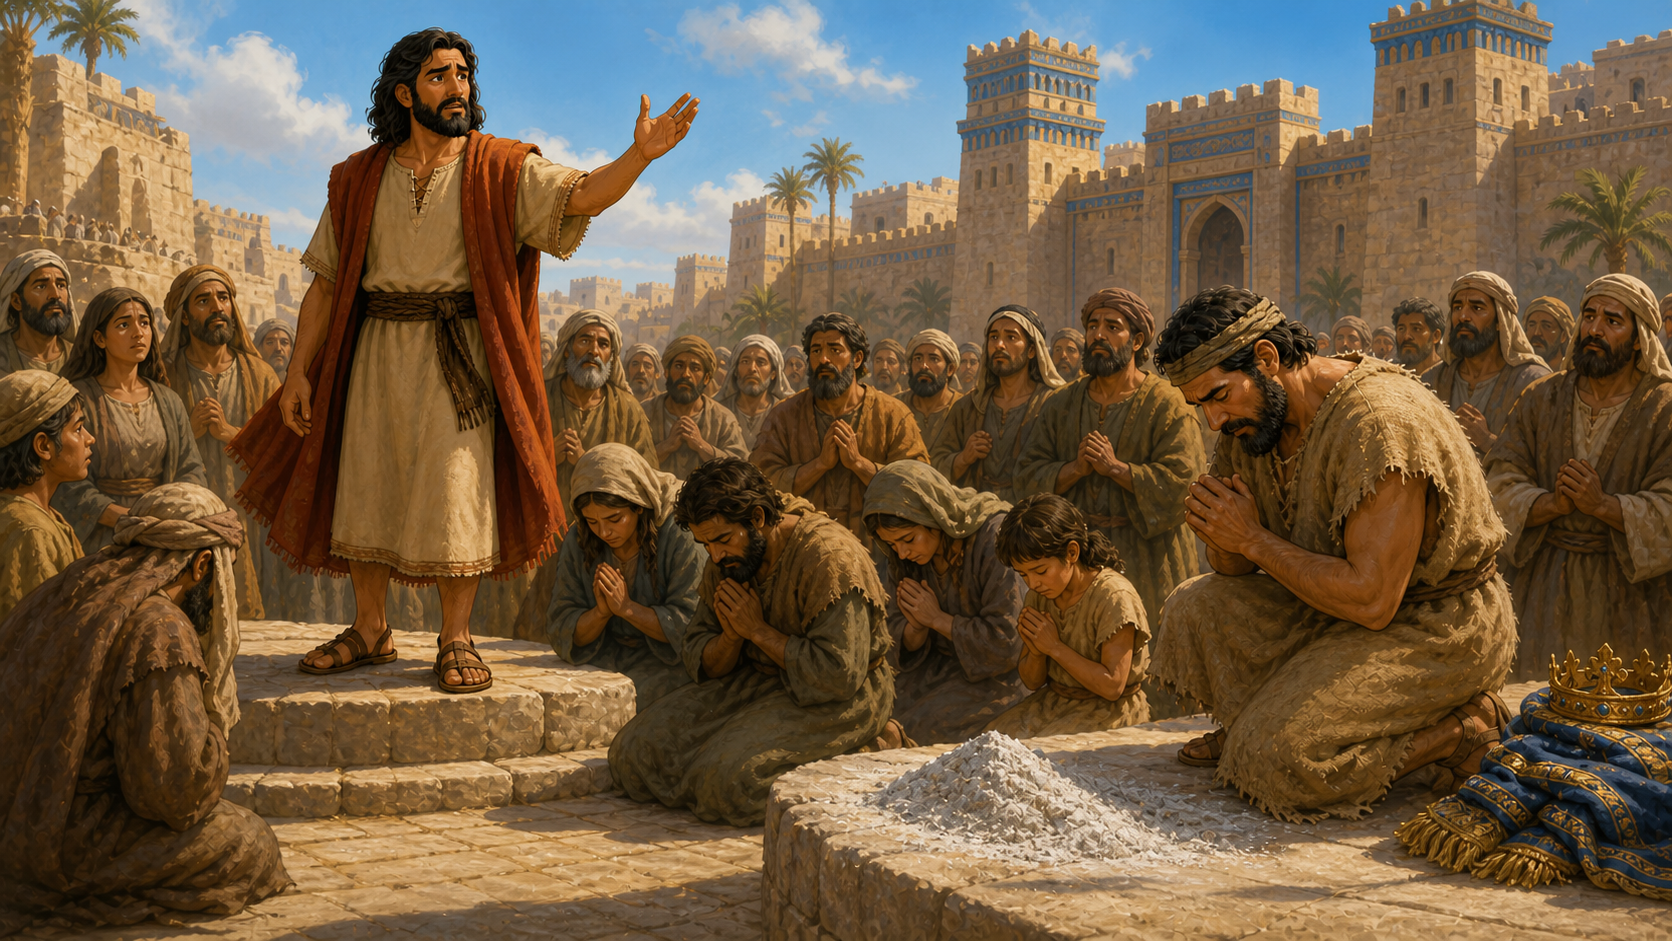
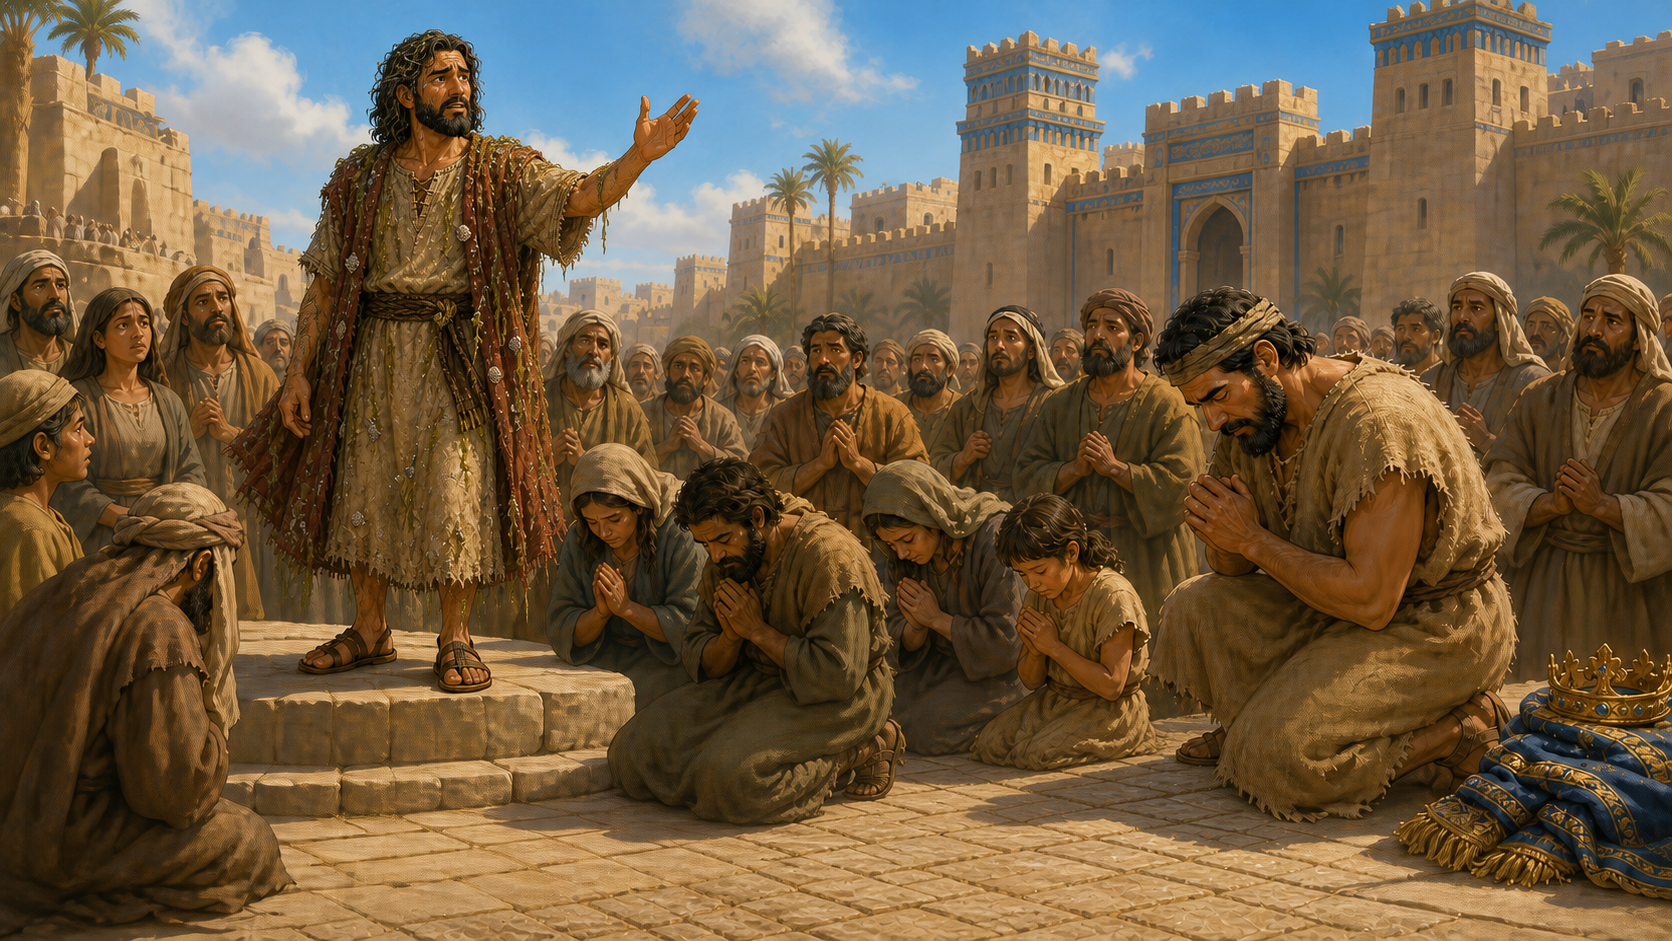
wip

diff --git a/Series/Adventures in the Bible/07 Jonah Runs From God/lesson-outline.md b/Series/Adventures in the Bible/07 Jonah Runs From God/lesson-outline.md
@@ -43,7 +43,7 @@ In Israel, God had certain people called prophets who would deliver his messages
 
 In Israel, there was a prophet named Jonah. God had a very specific message for Jonah to deliver, but it wasn't to the people of Israel, it was to the people of Nineveh. God wanted Nineveh to repent of their wickedness and to turn away from their evil deeds and to turn to God. And if they did that, he would forgive them. Otherwise, the city would be destroyed. 
 
- Jonah did not want to tell this message because Jonah, just like the rest of the Israelites, hated Nineveh and the Assyrians because of how they treated them.  Jonah knew very clearly what God wanted him to do. He wasn't confused. He didn't hear God incorrectly. He knew exactly what he was supposed to do. 
+Jonah did not want to tell this message because Jonah, just like the rest of the Israelites, hated Nineveh and the Assyrians because of how they treated them.  Jonah knew very clearly what God wanted him to do. He wasn't confused. He didn't hear God incorrectly. He knew exactly what he was supposed to do. 
 
 But Jonah decided not to obey. Jonah did not want Nineveh to repent of their sin. Jonah wanted Nineveh to be destroyed. He wanted God to judge Nineveh, not to forgive them. So Jonah decided to disobey God and not do what he was told. 
 
@@ -70,11 +70,11 @@ But Jonah decided not to obey. Jonah did not want Nineveh to repent of their sin
 
 ![image-3](image-3.png)
 
- So here we see Jonah, a prophet of God, doing something very silly. As a prophet, you would think he would know that you can't run from God, that you can't hide from God, and that God isn't going to change His mind just because you decide to disobey Him. You and I know better, and He's certainly did too. 
+So here we see Jonah, a prophet of God, doing something very silly. As a prophet, you would think he would know that you can't run from God, that you can't hide from God, and that God isn't going to change His mind just because you decide to disobey Him. You and I know better, and He's certainly did too. 
 
- Jonah was simply being naughty and disobeying God. God gave him a clear command, and he was rebelling against what God wanted him to do. Instead of going towards Nineveh, he decided to go the other way. He got on a boat, going to a city far, far away, paid for it. and headed in the opposite direction. 
+Jonah was simply being naughty and disobeying God. God gave him a clear command, and he was rebelling against what God wanted him to do. Instead of going towards Nineveh, he decided to go the other way. He got on a boat, going to a city far, far away, paid for it. and headed in the opposite direction. 
 
- He knew that he was doing wrong. He knew that he was disobeying God. God wanted him to go the other way, but Jonas said no. I'm sure every person he passed on his way to that boat reminded him of the people of Nineveh who would die and go to hell if he did not obey God. 
+He knew that he was doing wrong. He knew that he was disobeying God. God wanted him to go the other way, but Jonas said no. I'm sure every person he passed on his way to that boat reminded him of the people of Nineveh who would die and go to hell if he did not obey God. 
 
 **Psalm 139:7-10 (KJV)** - No one can go where God is not present.
 
@@ -116,50 +116,28 @@ But Jonah decided not to obey. Jonah did not want Nineveh to repent of their sin
 
 ![image-4](image-4.png)
 
- Boys and girls sometimes we might think that what God wants us to do is scary or sometimes it's something we don't want to do but no matter how scary it is or how much we don't want to do it. Disobeying God is always worse. Jonah was about to learn that the hard way. 
+Boys and girls sometimes we might think that what God wants us to do is scary or sometimes it's something we don't want to do but no matter how scary it is or how much we don't want to do it. Disobeying God is always worse. Jonah was about to learn that the hard way. 
 
- Jonah got on that ship and started to sail away. And at first, I'm sure he thought everything was just fine. But it wasn't. Soon it started to rain, and the wind picked up. And before he knew it, there was a massive storm. The storm was so bad it began to tear the ship apart. The crew began throwing things overboard to keep it floating when they found him sleeping below deck. 
+Jonah got on that ship and started to sail away. And at first, I'm sure he thought everything was just fine. But it wasn't. Soon it started to rain, and the wind picked up. And before he knew it, there was a massive storm. The storm was so bad it began to tear the ship apart. The crew began throwing things overboard to keep it floating when they found him sleeping below deck. 
 
- And asked him to pray that they would survive the storm. Then they decided to do something called cast lots to figure out whose fault it was that they were in this horrible storm.  Sure enough, they figured out it was Jonah. Jonah confessed to them that he was running from God. And this terrified them even more. 
+And asked him to pray that they would survive the storm. Then they decided to do something called cast lots to figure out whose fault it was that they were in this horrible storm.  Sure enough, they figured out it was Jonah. Jonah confessed to them that he was running from God. And this terrified them even more. 
 
- You see boys and girls, if he had just obeyed God from the beginning, sure he would have had to do something he didn't want to do, but he would have escaped this horrible storm, would not be fearing his own death, and would not have endangered the lives of complete strangers. Something we must realize is that whenever we do wrong, it doesn't just affect us, but it always affects someone else. 
+You see boys and girls, if he had just obeyed God from the beginning, sure he would have had to do something he didn't want to do, but he would have escaped this horrible storm, would not be fearing his own death, and would not have endangered the lives of complete strangers. Something we must realize is that whenever we do wrong, it doesn't just affect us, but it always affects someone else. 
 
-**Supporting Scriptures:**
+Jonah's wasn't the only story of a man who sinned and others paid the consequence for it. A man named Achan stole some goods from God and his entire family ended up being killed because of it. 
 
-- **Galatians 6:7 (KJV)** - We reap what we sow.
+**Joshua 7:1 (KJV)** - Achan's disobedience brought the LORD's anger upon all Israel.
 
-  > Be not deceived; God is not mocked: for whatsoever a man soweth, that shall he also reap.
-
-- **Proverbs 28:13 (KJV)** - Hiding sin does not bring mercy; confessing and forsaking it does.
-
-  > He that covereth his sins shall not prosper: but whoso confesseth and forsaketh them shall have mercy.
-
-- **Psalm 107:23-28 (KJV)** - God is sovereign over the sea and storms.
-
-  > 23 They that go down to the sea in ships, that do business in great waters;
-  >
-  > 24 These see the works of the LORD, and his wonders in the deep.
-  >
-  > 25 For he commandeth, and raiseth the stormy wind, which lifteth up the waves thereof.
-  >
-  > 26 They mount up to the heaven, they go down again to the depths: their soul is melted because of trouble.
-  >
-  > 27 They reel to and fro, and stagger like a drunken man, and are at their wits' end.
-  >
-  > 28 Then they cry unto the LORD in their trouble, and he bringeth them out of their distresses.
+> But the children of Israel committed a trespass in the accursed thing: for Achan, the son of Carmi, the son of Zabdi, the son of Zerah, of the tribe of Judah, took of the accursed thing: and the anger of the LORD was kindled against the children of Israel.
 
 **Practical Application for Children:**
 
 - Sin never stays as small as we think it will.
 - Your disobedience can hurt your family, friends, class, or church.
-- Do not be like Jonah and sleep through a problem you need to face.
-
-**Illustration:**
-
-- Use a toy boat in a pan or on a blue sheet while children make storm sounds.
-- Pause suddenly and ask: "Why is this storm happening?"
 
 ### 5. Jonah Was Thrown Into The Sea
+
+![image-5](image-5.png?1)
 
 **Main Passage:**
 
@@ -179,38 +157,25 @@ But Jonah decided not to obey. Jonah did not want Nineveh to repent of their sin
 
 **Summary/Lesson:**
 
-- Jonah told the sailors to throw him into the sea.
-- The sailors tried hard to row back to land before doing it.
-- When they threw Jonah overboard, the sea became calm.
-- The sailors feared the LORD and offered a sacrifice to Him.
-- Jonah's sin had brought him to a frightening, helpless place.
+The men on the ship wanted to know what Jonah thought they could do to save their ship and their lives. Jonah told them to throw him into the ocean. The men on the boat had good character because they couldn't do it. They didn't want to. They didn't want to harm another man's life, even though it might save theirs. That's more to say than Jonah, because Jonah was willing to put their lives, at risk just so that he didn't have to go to Nineveh. 
 
-**Supporting Scriptures:**
+So the men continued rowing, trying to fight the storm while Jonah sat there on the boat. Once again, Jonah didn't voluntarily jump into the ocean either. He could have done that, saving the man in the boat from more harm. But as the storm got worse, and the boat got beat more and more by the waves, the sailors knew they had to throw him overboard. And so they did. 
 
-- **Romans 6:23 (KJV)** - Sin earns death.
+ When they threw Joe overboard, the storm immediately stopped and the sea became calm again. 
 
-  > For the wages of sin is death; but the gift of God is eternal life through Jesus Christ our Lord.
+**Romans 6:23 (KJV)** - Sin earns death.
 
-- **Hebrews 9:27 (KJV)** - People must face God after death.
-
-  > And as it is appointed unto men once to die, but after this the judgment:
-
-- **Psalm 46:1 (KJV)** - God is our refuge and strength in trouble.
-
-  > God is our refuge and strength, a very present help in trouble.
+> For the wages of sin is death; but the gift of God is eternal life through Jesus Christ our Lord.
 
 **Practical Application for Children:**
 
 - Sin is serious, even when it begins with one wrong choice.
-- We need more than our own strength or cleverness to escape sin.
-- God can use even a hard consequence to get our attention.
-
-**Illustration:**
-
-- Have the "storm" stop instantly when a paper Jonah is removed from the toy boat.
-- Ask: "Could Jonah swim away from God?"
+- We cannot escape sin through our own strength or cleverness.
+- God will use even a hard consequence to get our attention.
 
 ### 6. God Prepared A Great Fish
+
+![image-6](image-6.png)
 
 **Main Passage:**
 
@@ -218,70 +183,33 @@ But Jonah decided not to obey. Jonah did not want Nineveh to repent of their sin
 
   > Now the LORD had prepared a great fish to swallow up Jonah. And Jonah was in the belly of the fish three days and three nights.
 
-- **Jonah 2:1-10 (KJV)**
+- **Jonah 2:1-2(KJV)**
 
   > 1 Then Jonah prayed unto the LORD his God out of the fish's belly,
   >
   > 2 And said, I cried by reason of mine affliction unto the LORD, and he heard me; out of the belly of hell cried I, and thou heardest my voice.
-  >
-  > 3 For thou hadst cast me into the deep, in the midst of the seas; and the floods compassed me about: all thy billows and thy waves passed over me.
-  >
-  > 4 Then I said, I am cast out of thy sight; yet I will look again toward thy holy temple.
-  >
-  > 5 The waters compassed me about, even to the soul; the depth closed me round about, the weeds were wrapped about my head.
-  >
-  > 6 I went down to the bottoms of the mountains; the earth with her bars was about me for ever: yet hast thou brought up my life from corruption, O LORD my God.
-  >
-  > 7 When my soul fainted within me I remembered the LORD: and my prayer came in unto thee, into thine holy temple.
-  >
-  > 8 They that observe lying vanities forsake their own mercy.
-  >
-  > 9 But I will sacrifice unto thee with the voice of thanksgiving; I will pay that that I have vowed. Salvation is of the LORD.
-  >
-  > 10 And the LORD spake unto the fish, and it vomited out Jonah upon the dry land.
 
 **Summary/Lesson:**
 
-- The LORD prepared a great fish to swallow Jonah.
-- Jonah spent three days and three nights in the fish's belly.
-- He was alive, trapped, wet, miserable, and unable to save himself.
-- Jonah prayed to the LORD from the belly of the fish.
-- Jonah remembered that "Salvation is of the LORD."
-- When God commanded, the fish vomited Jonah onto dry land.
-- The fish was not a lucky accident; it was God's powerful mercy and discipline.
+ Then the craziest thing happened. A great fish came and swallowed Jonah. Now I have no idea how Jonah survived in the belly of the fish. But the Bible says that he was in there for three days and three nights. 
 
-**Supporting Scriptures:**
+For three days and three nights, Jonah had to suffer the smell of digesting food, rotting fish and the burning of stomach acid. There was no way out. He was stuck here until God decided he was done. Jonah prayed and begged for three days for God to forgive him and to free him so that he could go to Nineveh. 
 
-- **Psalm 34:18 (KJV)** - The LORD is near to the brokenhearted.
+ Jonah was finally ready to give in and go to Nineveh. He could have avoided all this if he had just obeyed in the first place. He would not have had to get swallowed by a fish or suffer a storm or be thrown into the ocean if he had only obeyed. 
 
-  > The LORD is nigh unto them that are of a broken heart; and saveth such as be of a contrite spirit.
-
-- **Lamentations 3:22-23 (KJV)** - God's mercies are new every morning.
-
-  > 22 It is of the LORD'S mercies that we are not consumed, because his compassions fail not.
-  >
-  > 23 They are new every morning: great is thy faithfulness.
-
-- **Matthew 12:40 (KJV)** - Jesus used Jonah's three days as a sign of His death, burial, and resurrection.
-
-  > For as Jonas was three days and three nights in the whale's belly; so shall the Son of man be three days and three nights in the heart of the earth.
+Finally, after three days, the j the fish puked Jonah onto the shore. 
 
 **Practical Application for Children:**
 
-- When you have sinned, do not wait until everything feels better before praying.
-- Tell God the truth, ask for mercy, and turn back to obey Him.
-- God is able to reach you in the mess you made.
-
-**Illustration:**
-
-- Let the class count slowly to three as a "great fish" blanket or cardboard mouth covers a Jonah figure.
-- Reveal Jonah on "dry land" and emphasize that God alone rescued him.
+-  We do not have to wait for God's judgment to turn away from our sin. 
+- If Jonah had repented before the storm and returned to the shore, he could have avoided all of this. 
+-  We need to obey God immediately. And if we don't obey God immediately, we should repent as soon as possible. 
 
 ### 7. Nineveh Heard God's Warning And Turned
 
 **Main Passage:**
 
-- **Jonah 3:1-10 (KJV)**
+- **Jonah 3:1-5, 10 (KJV)**
 
   > 1 And the word of the LORD came unto Jonah the second time, saying,
   >
@@ -293,37 +221,26 @@ But Jonah decided not to obey. Jonah did not want Nineveh to repent of their sin
   >
   > 5 So the people of Nineveh believed God, and proclaimed a fast, and put on sackcloth, from the greatest of them even to the least of them.
   >
-  > 6 For word came unto the king of Nineveh, and he arose from his throne, and he laid his robe from him, and covered him with sackcloth, and sat in ashes.
-  >
-  > 7 And he caused it to be proclaimed and published through Nineveh by the decree of the king and his nobles, saying, Let neither man nor beast, herd nor flock, taste any thing: let them not feed, nor drink water:
-  >
-  > 8 But let man and beast be covered with sackcloth, and cry mightily unto God: yea, let them turn every one from his evil way, and from the violence that is in their hands.
-  >
-  > 9 Who can tell if God will turn and repent, and turn away from his fierce anger, that we perish not?
   >
   > 10 And God saw their works, that they turned from their evil way; and God repented of the evil, that he had said that he would do unto them; and he did it not.
 
 **Summary/Lesson:**
 
-- God gave Jonah the command again.
-- This time Jonah went to Nineveh and preached God's warning.
-- The people of Nineveh believed God and turned from their wicked way.
-- God saw their repentance and showed mercy.
-- The story ends by showing that God cares about sinners everywhere.
+![image-7](image-7.png)
 
-**Supporting Scriptures:**
+ Jonah finally goes to Nineveh and preaches and tells them that they have to repent, or God will judge them. And sure enough, the people of that city turned to God, repented of their sin, and began obeying him. 
 
-- **Luke 15:7 (KJV)** - Heaven rejoices when one sinner repents.
+God forgave them and did not judge the city like he was going to. An entire city was saved. Many people did not die because he finally obeyed and delivered God's message. 
 
-  > I say unto you, that likewise joy shall be in heaven over one sinner that repenteth, more than over ninety and nine just persons, which need no repentance.
+ Just like before when Jonah disobeyed and it affected the sailors on the boat, here Jonah is obeying and it is affecting the lives of 120,000 people in Nineveh.  Except this time, instead of being judged, these people get to receive the forgiveness and mercy of God. 
 
-- **2 Peter 3:9 (KJV)** - God is not willing that any should perish.
+**2 Peter 3:9 (KJV)** - God is not willing that any should perish.
 
-  > The Lord is not slack concerning his promise, as some men count slackness; but is longsuffering to us-ward, not willing that any should perish, but that all should come to repentance.
+> The Lord is not slack concerning his promise, as some men count slackness; but is longsuffering to us-ward, not willing that any should perish, but that all should come to repentance.
 
-- **Romans 10:13 (KJV)** - Whoever calls on the Lord shall be saved.
+**Romans 10:13 (KJV)** - Whoever calls on the Lord shall be saved.
 
-  > For whosoever shall call upon the name of the Lord shall be saved.
+> For whosoever shall call upon the name of the Lord shall be saved.
 
 **Practical Application for Children:**
 
@@ -331,20 +248,19 @@ But Jonah decided not to obey. Jonah did not want Nineveh to repent of their sin
 - Do not delay when God convicts you about sin.
 - Tell others that Jesus can save them too.
 
-**Illustration:**
-
-- Give the class a simple "warning sign" and a "turn around" sign.
-- Explain that repentance means turning from sin to God; it is not merely feeling sorry.
-
 ## Segue Into The Plan Of Salvation
 
-- Jonah was trapped and could not rescue himself from the great fish.
-- We are trapped by sin and cannot save ourselves by being good, going to church, or trying harder.
-- Nineveh heard God's warning, believed God, and turned from their wickedness.
-- Jesus died for our sins, was buried, and rose again.
-- Like Jonah was in the fish for three days, Jesus was in the grave and then rose again; Jesus Himself connected Jonah's three days to this sign in Matthew 12:40.
-- Salvation is of the LORD, not something we can earn.
-- Invite children to admit their sin and trust Jesus Christ alone to save them.
+Just like the Ninevites, we are also sinners, and we are doomed to be judged if we don't turn from our sin. Our sin condemns us to death in hell, but all we have to do is accept Jesus as our Savior to turn away from our sin and turn towards Him and we can also receive His forgiveness and mercy just like these people did.
+
+ We don't want to wait until it's too late. It's easy to say, Well, I will get saved later. And then we end up waiting too late. 
+
+**Romans 6:23**
+
+> For the wages of sin is death; but the gift of God is eternal life through Jesus Christ our Lord.
+
+**Romans 10:9-10**
+
+> That if thou shalt confess with thy mouth the Lord Jesus, and shalt believe in thine heart that God hath raised him from the dead, thou shalt be saved. For with the heart man believeth unto righteousness; and with the mouth confession is made unto salvation.
 
 ## Main Applications For The Kids
 

diff --git a/Series/Adventures in the Bible/07 Jonah Runs From God/lesson-image-plan.md b/Series/Adventures in the Bible/07 Jonah Runs From God/lesson-image-plan.md
@@ -9,6 +9,6 @@
 2. `image-2.png` - Nineveh at night is filled with dishonesty and cruelty as people cheat, steal, argue, and mistreat a poor family.
 3. `image-3.png` - Jonah chooses the opposite direction, walking down to the harbor at Joppa and boarding a wooden ship bound for Tarshish.
 4. `image-4.png` - A mighty but child-safe sea storm shakes Jonah’s ship as worried sailors work on deck and Jonah sleeps below.
-5. `image-5.png` - The sailors place Jonah into the sea; the storm stops at once and the sea becomes calm, showing the serious consequence of rebellion.
-6. `image-6.png` - God’s great fish carries Jonah toward shore; a gentle storybook cutaway shows Jonah praying inside its softly lit belly.
-7. `image-7.png` - Jonah faithfully warns Nineveh and its people, including the king, turn from evil and pray humbly to God.
+5. `image-5.png` - From deep beneath the calm sea, Jonah sinks helplessly below the visible underside of the ship and reaches toward the distant surface.
+6. `image-6.png` - Jonah is cramped inside the great fish, struggling in misery among slime, seaweed, shells, and half-digested seafood.
+7. `image-7.png` - Still coated in seafood residue with frayed clothes and ragged hair, Jonah warns Nineveh as its people and king turn humbly to God.
